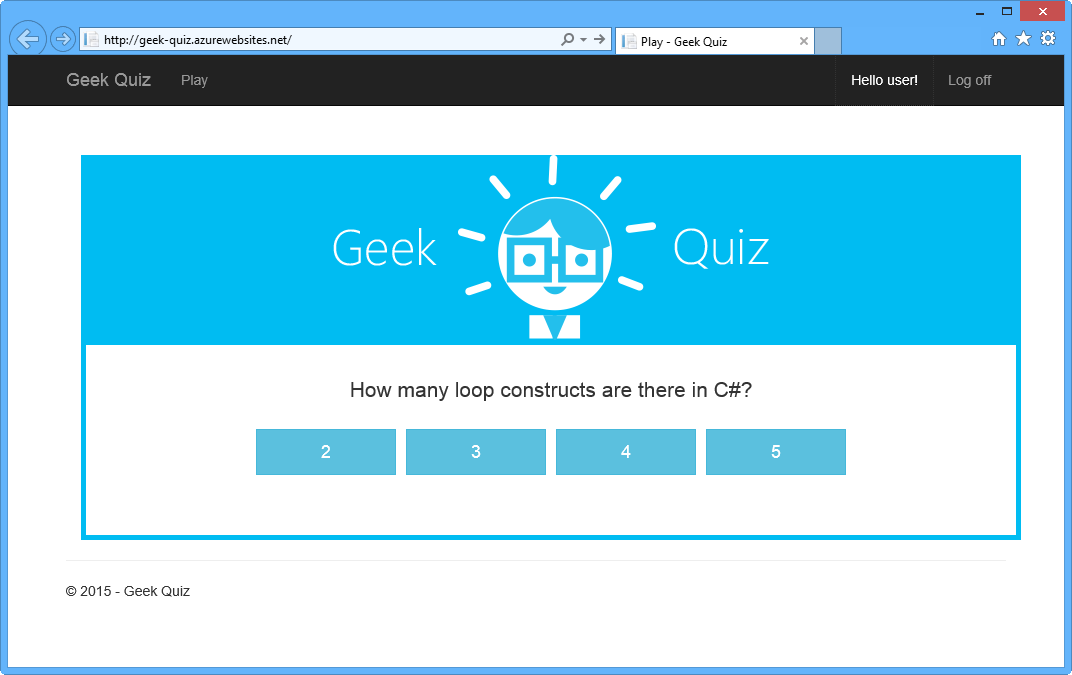
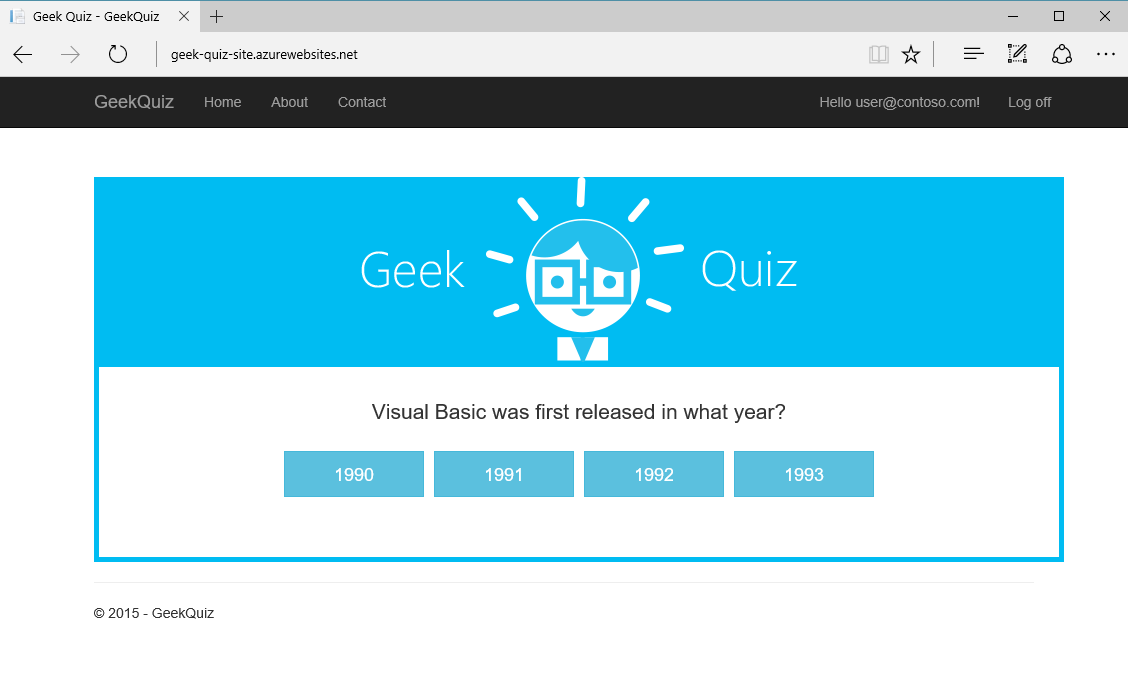
Updated document and screenshots for ex 4 of "Websites in production" HOL

Changed region(s): [[0.0616, 0.2178, 0.9543, 0.84], [0.0, 0.0, 1.0, 1.0], [0.0616, 0.8711, 0.1847, 0.9333]]

diff --git a/HOL/WebSitesInProduction/README.md b/HOL/WebSitesInProduction/README.md
@@ -700,7 +700,7 @@ In this task, you will use the Server Explorer window from Visual Studio to conn
 
 In this task, you will configure the **GeekQuiz** solution to consume the image uploaded to Azure Blob Storage (instead of the image located in the web site) by adding an ASP.NET URL rewrite rule in the **web.config** file.
 
-1. In Visual Studio, open the **Web.config** file in the **GeekQuiz** project and locate the **\<system.webServer>** element.
+1. In Visual Studio, open the **web.config** file located in the **wwwroot** folder in the **GeekQuiz** project and locate the **\<system.webServer>** element.
 
 1. Add the following code to add a URL rewrite rule, updating the placeholder with your storage account name.
 
@@ -722,6 +722,18 @@ In this task, you will configure the **GeekQuiz** solution to consume the image 
 	> **Note:** URL rewriting is the process of intercepting an incoming Web request and redirecting the request to a different resource. The URL rewriting rules tells the rewriting engine when and where a request needs to be redirected. A rewriting rule is composed of two strings: the pattern to look for in the requested URL (usually, using regular expressions), and the string to replace the pattern with, if found. For more information, see [URL Rewriting in ASP.NET](http://msdn.microsoft.com/en-us/library/ms972974.aspx).
 
 1. Press **CTRL + S** to save the changes.
+
+1. Open the **Index.cshtml** file located at **Views | Home**. and add the following header row inside the div element with the **container** class.
+
+    ````HTML
+    <div class="row header">
+        <img src="@Url.Content("~/img/logo-big.png")" alt="" />
+    </div>
+    ````
+
+	![Updated index view](Images/updated-index-view.png?raw=true "Updated index view")
+	
+	_Updated index view_
 
 1. Now you will deploy the updated application to Azure. Open a new **Git Bash** console and execute the following commands to push the changes into the repository and trigger a new deployment. Update the _[YOUR-APPLICATION-PATH]_ placeholder with the path to the **GeekQuiz** solution. 
 
@@ -747,7 +759,7 @@ In this task you will use **Microsoft Edge** to browse the **Geek Quiz** applica
 
 1. Press **F12** to launch the development tools, select the **Network** tab and start recording.
 
-	![Starting network recording](Images/starting-the-network-recording.png?raw=true "Starting network recording")
+	![Starting network recording](Images/starting-the-network-recording-2.png?raw=true "Starting network recording")
 
 	_Starting network recording_
 
